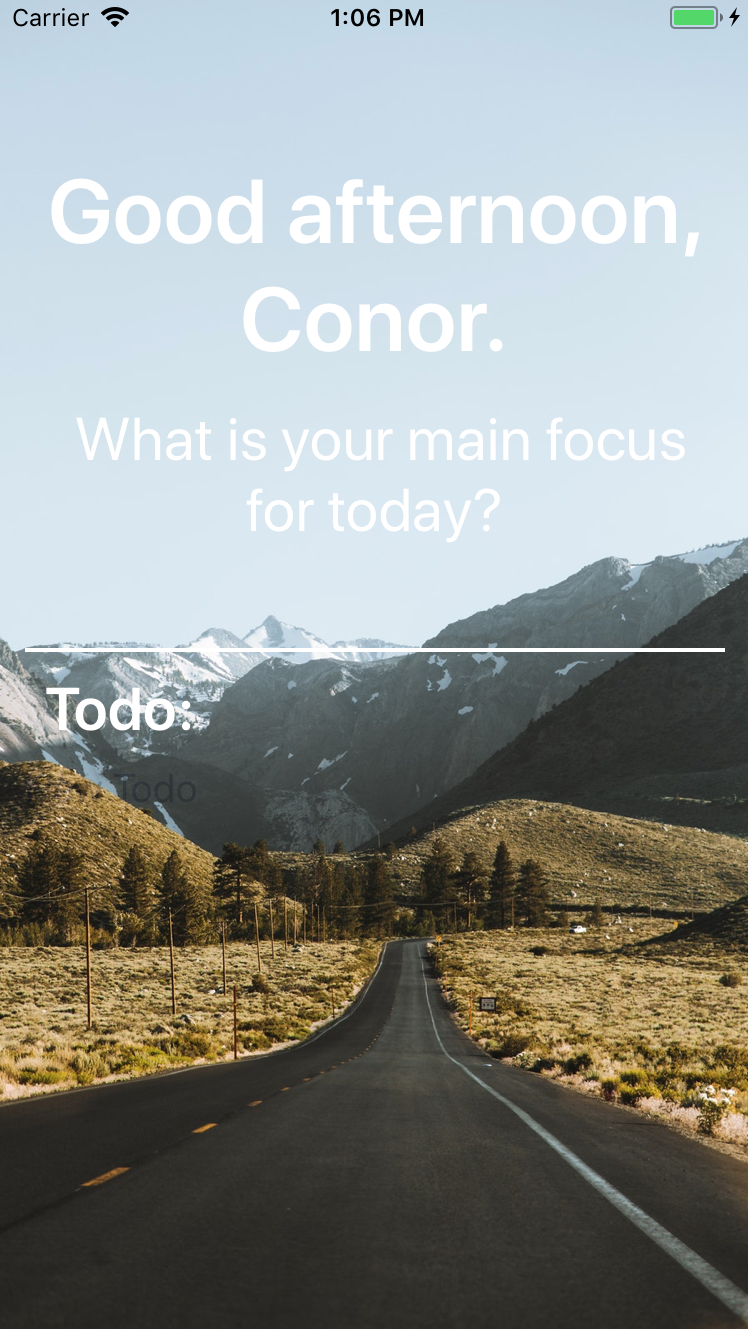
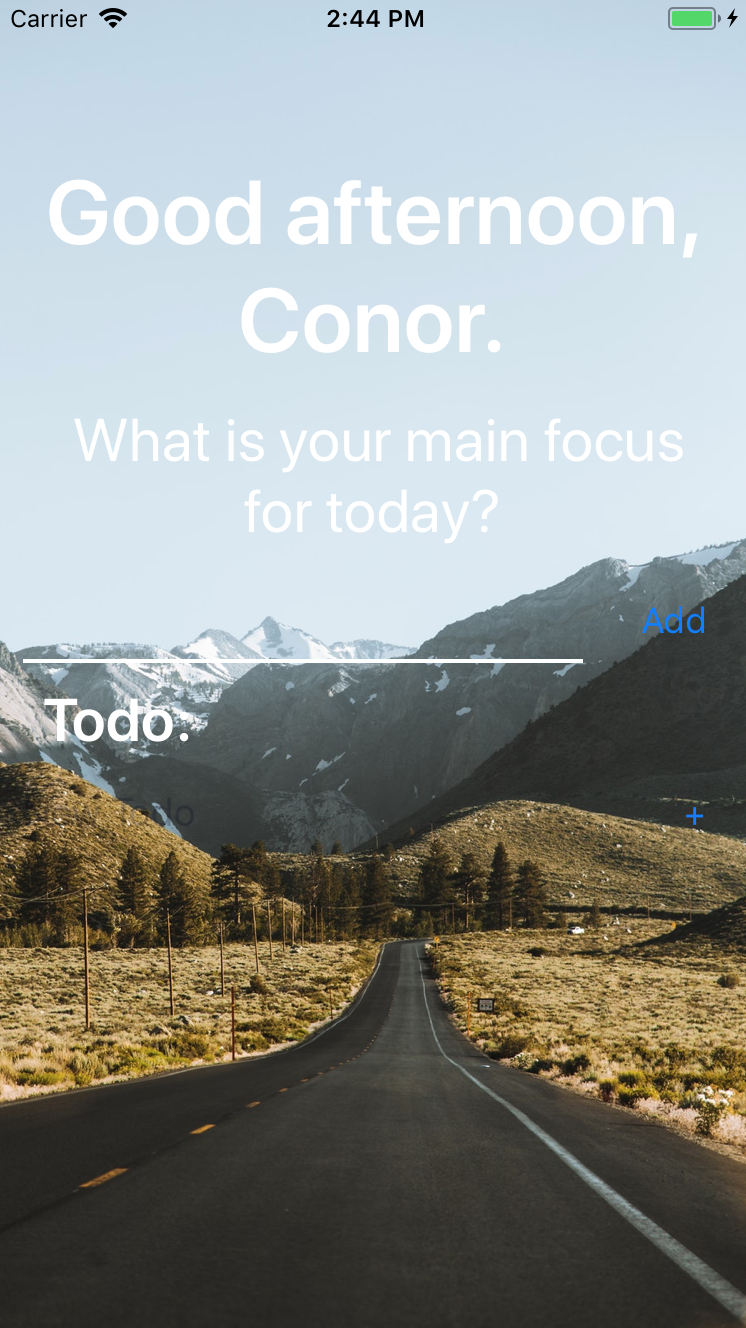
added images of app in use and updated readme

diff --git a/README.md b/README.md
@@ -5,4 +5,12 @@ When containing no user input for the main focus of the day or any items in to t
 
 <p align="center">
 <img src="https://github.com/C2P1/Whirl/blob/master/resources/img/Default.png" width="240">
+</p>   
+
+
+Example of some todo items having been added:   
+
+
+<p align="center">
+<img src="https://github.com/C2P1/Whirl/blob/master/resources/img/AddingTodo.png" width="240">
 </p>
